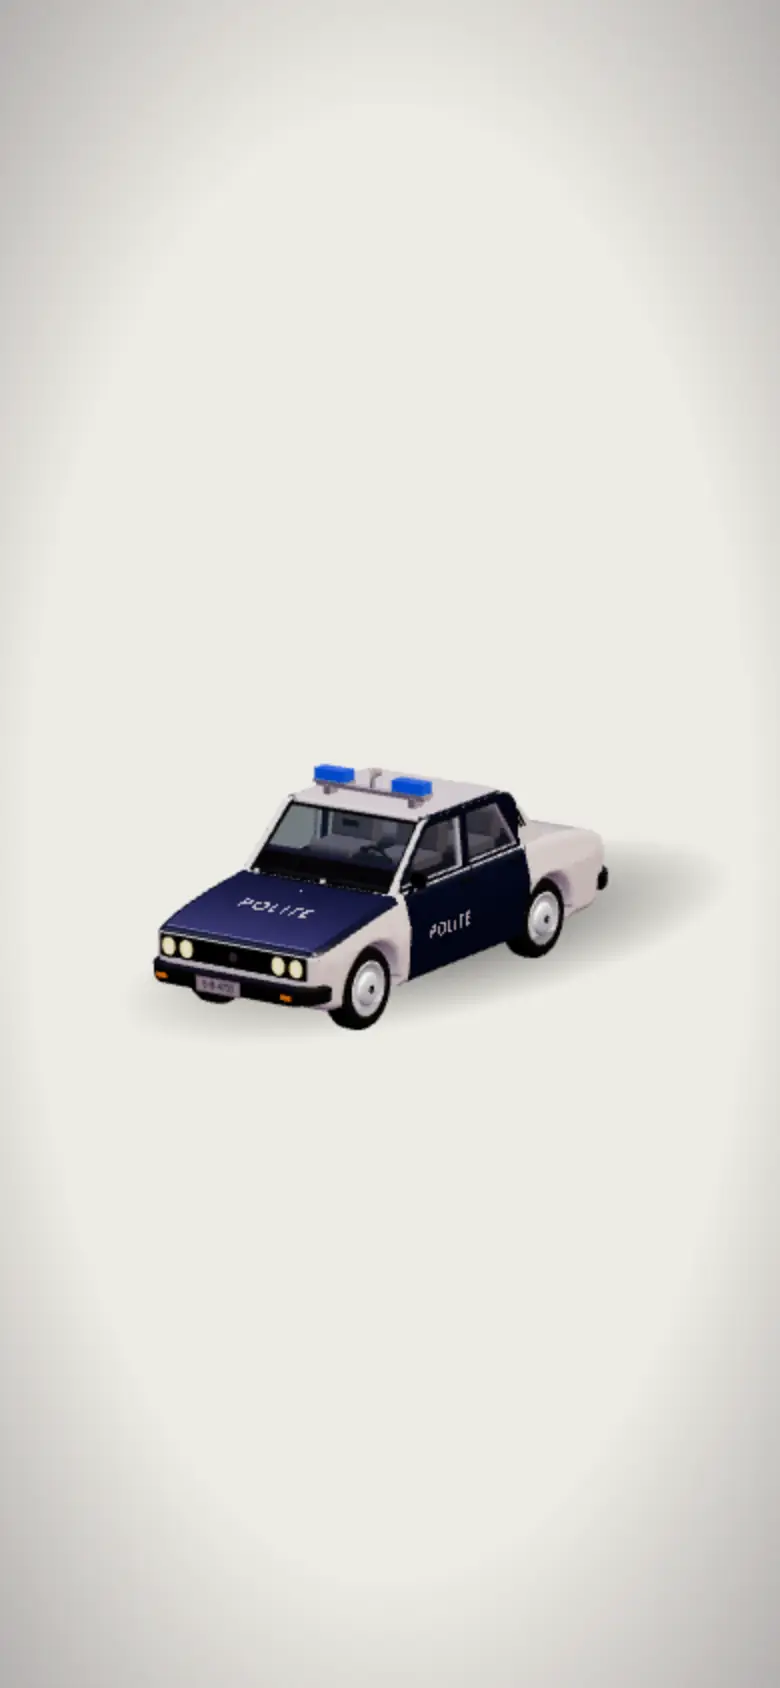
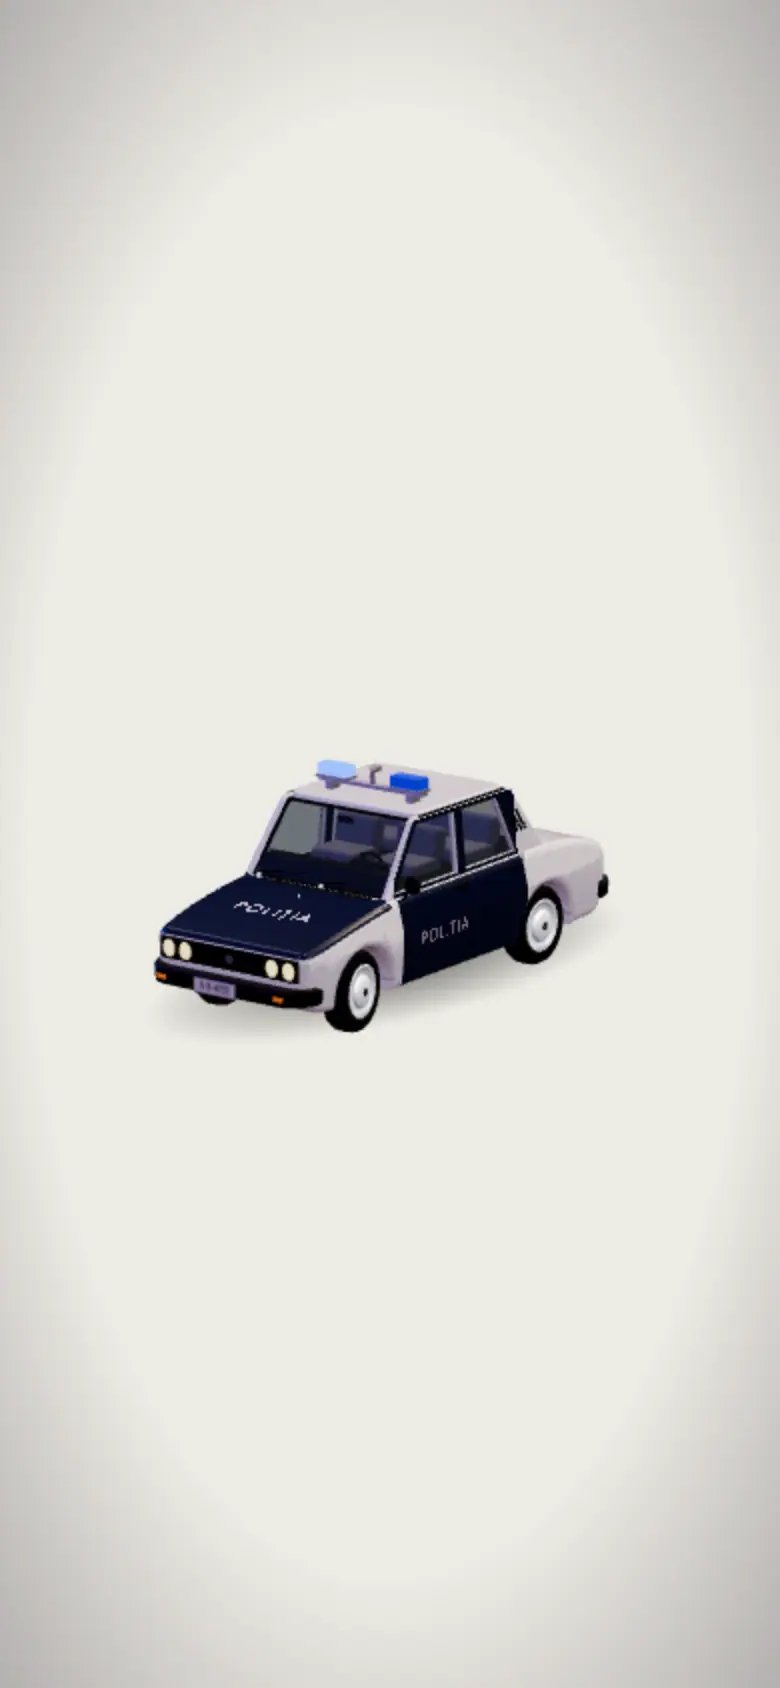
r278: the POLITE onboarding stills ship under new names (ride-cop-polite*), so live keeps its files until 4.6 goes live

Changed region(s): [[0.1846, 0.4313, 0.8923, 0.6161]]

diff --git a/site/onboarding/index.html b/site/onboarding/index.html
@@ -302,7 +302,7 @@
     <i class="zseg" data-v="plane" data-still="z/ride-plane"></i>
     <i class="zseg" data-v="scooter" data-still="z/ride-scooter"></i>
     <i class="zseg" data-v="foodvan" data-still="z/ride-foodvan"></i>
-    <i class="zseg" data-v="cop" data-still="z/ride-cop"></i>
+    <i class="zseg" data-v="cop" data-still="z/ride-cop-polite"></i>
     <i class="zseg" data-v="sub" data-still="z/ride-sub"></i>
   </div>
 </section>
